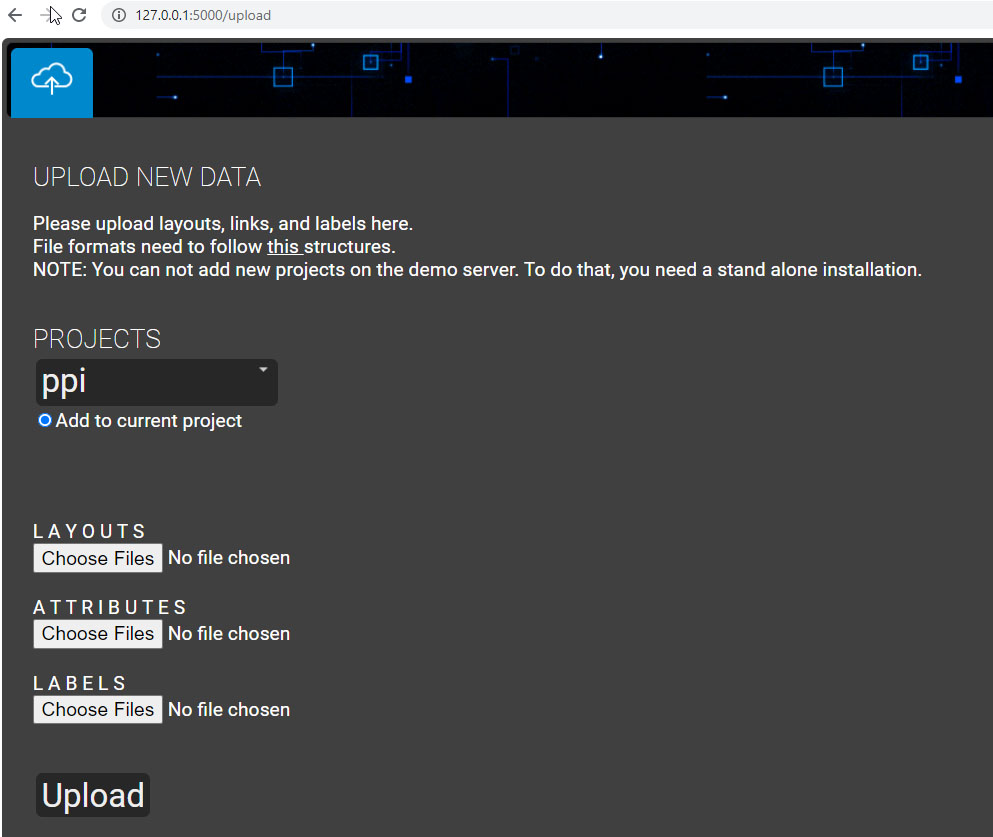
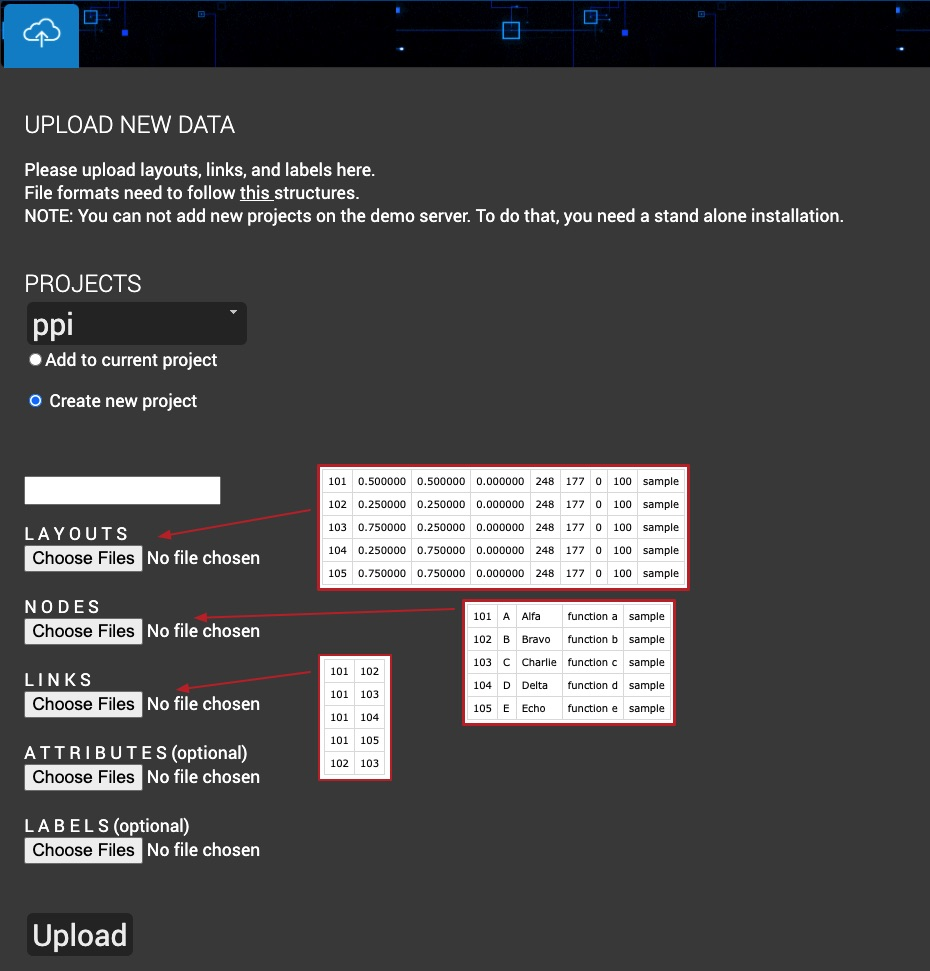
Change README extend uploader section

diff --git a/README.md b/README.md
@@ -122,6 +122,32 @@ The VR Module can produce log files that contain a list of all that has happened
 If you want you can take screenshots and videos of the running application using nvidia geforce experience, which is a free download for nvidia graphics cards, find it here: [geforce experience](https://www.nvidia.com/de-at/geforce/geforce-experience/).
 After installation the default key combination for taking a screenshot is alt+f1 and to start or stop a video recording you press alt+f9. Depending on your setup you might need to enable the ingame overlay and enable desktop recording in the privacy settings in the geforce experience settings if the hotkeys do not work right away.
 
+
+## **Tutorial 1: Using the Uploader to add your own network**
+
+
+WINDOWS
+- right click on VRNetzer/ Analytics_Module/runAnalyticsModule.ps1 -> "run with power shell" to start the Analytics Module
+- right click on VRNetzer/ UI_Module/run_UI_Module.ps1 -> "run with power shell" to start the UI Module
+- open the web frontend of the UI Module in a browser /http://127.0.0.1:5000/upload 
+
+MAC/LINUX
+- open terminal, cd to Analytics_Module and run app.py with python3
+- open terminal, cd to UI_Module and run json_io.py with python3
+#
+- open the web frontend of the UI Module in a browser http://127.0.0.1:5000/upload <br> ![alt text](pictures/upload.jpg)
+
+<!---
+- tick "Create Project" and choose a name that isn't already in the dropdown menu
+-->
+
+- select .csv files to upload, [they must be formatted after these guidelines](#Csv-file-formats) as sketched in the picture above.  
+- Required is as least a layout file with xyz coordinated (normalized each in [0,1]) and colors you will obtain a 3D point cloud.
+- If you add an edge list that refers to the identifiers given in the 1st column of the layout file you will obtain a network with nodes and edges.
+- Uploading a node file with symbols, names and functions/features (optional, can remain empty) you will find the symbols as labels in VR and the node characteristics on the node panel when clicking on a node
+- restart the VR Module and load your project 
+
+
 ## **VRNetzer Architecture Overview**
 
 The **VRNetzer** platform consists of 5 Modules:<br>![alt text](pictures/architecture.png )
@@ -174,27 +200,6 @@ Additionally, you may want to include more data to contextualize your nodes or e
 
 The possibilities are endless!  Functions to query or manipulate the database are in [tables.py](https://github.com/menchelab/Analytics_Module/blob/master/tables.py) of the Analytics Module.
 
-
-## **Tutorial 1: Using the Uploader to add your own network**
-
-
-WINDOWS
-- right click on VRNetzer/ Analytics_Module/runAnalyticsModule.ps1 -> "run with power shell" to start the Analytics Module
-- right click on VRNetzer/ UI_Module/run_UI_Module.ps1 -> "run with power shell" to start the UI Module
-- open the web frontend of the UI Module in a browser /http://127.0.0.1:5000/upload 
-
-MAC/LINUX
-- open terminal, cd to Analytics_Module and run app.py with python3
-- open terminal, cd to UI_Module and run json_io.py with python3
-#
-- open the web frontend of the UI Module in a browser http://127.0.0.1:5000/upload <br> ![alt text](pictures/upload.jpg)
-
-<!---
-- tick "Create Project" and choose a name that isn't already in the dropdown menu
--->
-
-- select .csv files to upload, [they must be formatted after these guidelines](#Csv-file-formats)  At minimum, you must have a file to describe the nodes and their positions.  If you have a node list, you can also upload af ile to describe the attributes of the nodes.
-- restart the VR Module and load your project 
 
 
 ## **Tutorial 2: Creating custom User Interfaces**
@@ -364,11 +369,11 @@ This is a blank POST request that calls the route we created before.
 
 You can find examples of all used .csv formats [HERE](https://github.com/menchelab/Analytics_Module/tree/master/sample_inputs) to to use as templates for the formatting.
 
-**Note:** You need to assign **unique node and attribute ID's** if you upload your own data to a new project.
+**Note:** You need to assign **unique node integer IDs (like EntrezID in case of genes) for your files to upload ** 
 <br>**Don't use commas** in string fields, as they are reserved delimiters.
 
 
-**Node Lists** look like this:
+**Layout Lists** look like this:
 ```
 8473,0.4993,0.4544,0.640,188,20,26,100,3dportrait
 ...
@@ -377,14 +382,29 @@ where each line is a node with the following data:
 
 |8473|0.4993|0.4544|0.640|188|20|26|100|3dportrait|
 |---|---|---|---|---|---|---|---|---|
-|NodeID|X-Pos|Y-Pos|Z-Pos|R|G|B|A|Name|
+|NodeID|X-Pos|Y-Pos|Z-Pos|R|G|B|A|Namespace|
 
-**Note:** For now, you have to provide XYZ coordinates for the layout. The positions need to be normalised between 0 - 1
+**Note:** Please provide XYZ coordinates for the layout that are normalised between 0 - 1
 
 RGBA colours range from 0 - 255
 **Note: "A" (in RGBA) value's should be 100.
 ** Bigger values makes nodes glow, smaller values make them darker.
 
+**Node Lists**
+
+It is recommended to provide a Node file that converts NodeIDs given in the Layout file into 
+readable symbols and names. There is also the possibility to fill the 4th column with functions, 
+descriptions or other properties that should show up on the node panel within the VR.
+Please make sure that no commas appear within these fields as the are used as delimiters!
+
+The format could look like this:
+
+|8473|OGT|O-linked N-acetylglucosamine (GlcNAc) transferase|protein coding|3dportrait|
+|---|---|---|---|---|---|---|---|---|
+|NodeID|Symbol|Name|Function|Namespace|
+
+Given symbols will appear as lables directly at selected nodes and proximity. 
+ 
 **Link Lists**
 ```
 1267,2945
@@ -396,7 +416,9 @@ where
 |---|---|
 |Start|End|
 
-for now, only one link list per project is supported
+The identifiers refer to the NodeIDs given in the Layout file.
+For now, unweighted link lists are supported and only one link list per project is allowed. 
+
 
 **Selection Lists**
 
